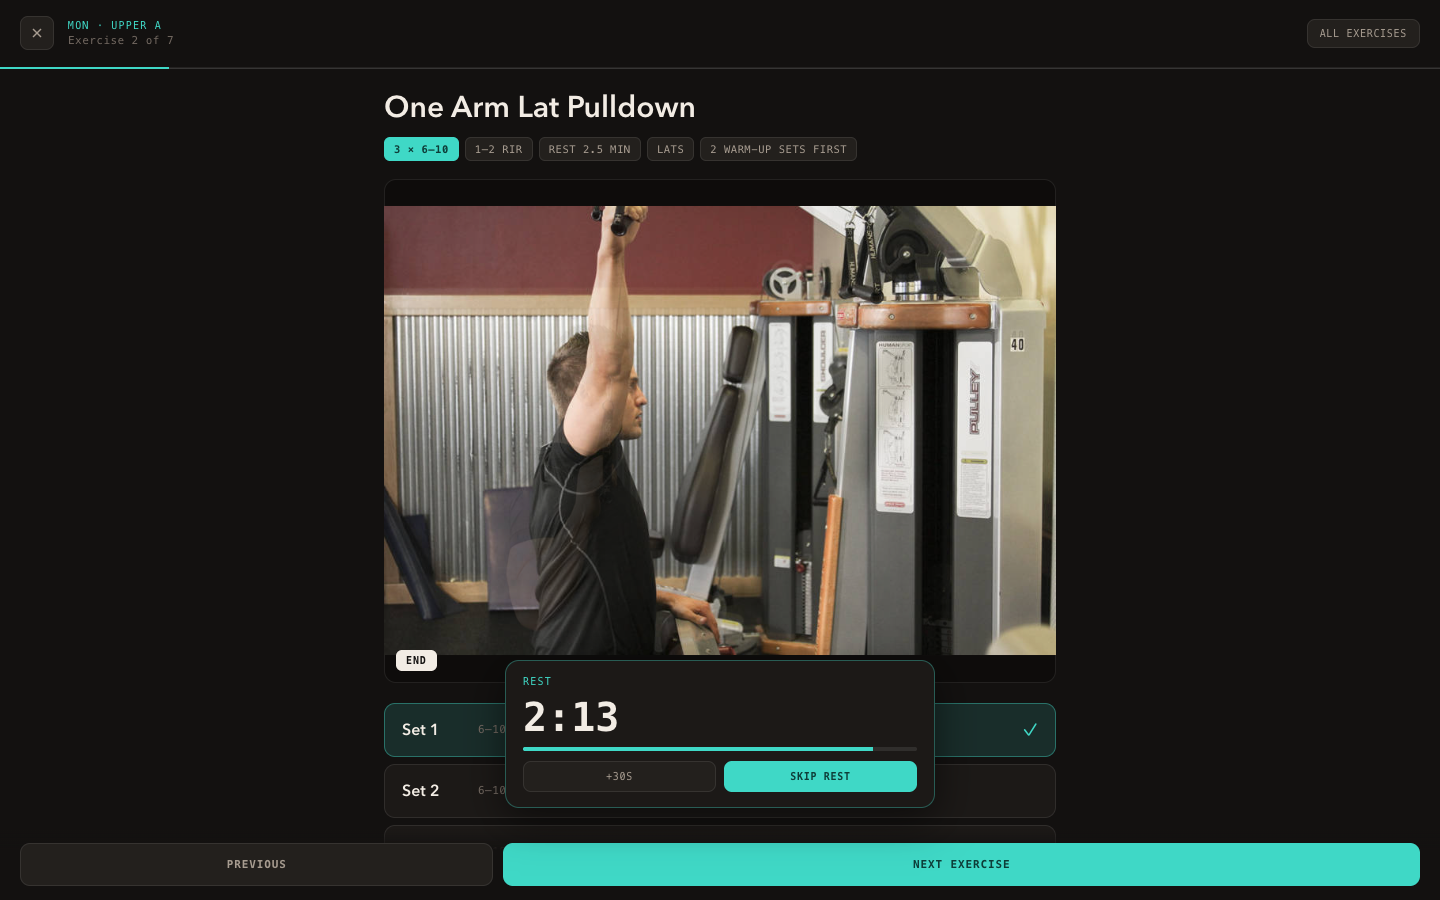
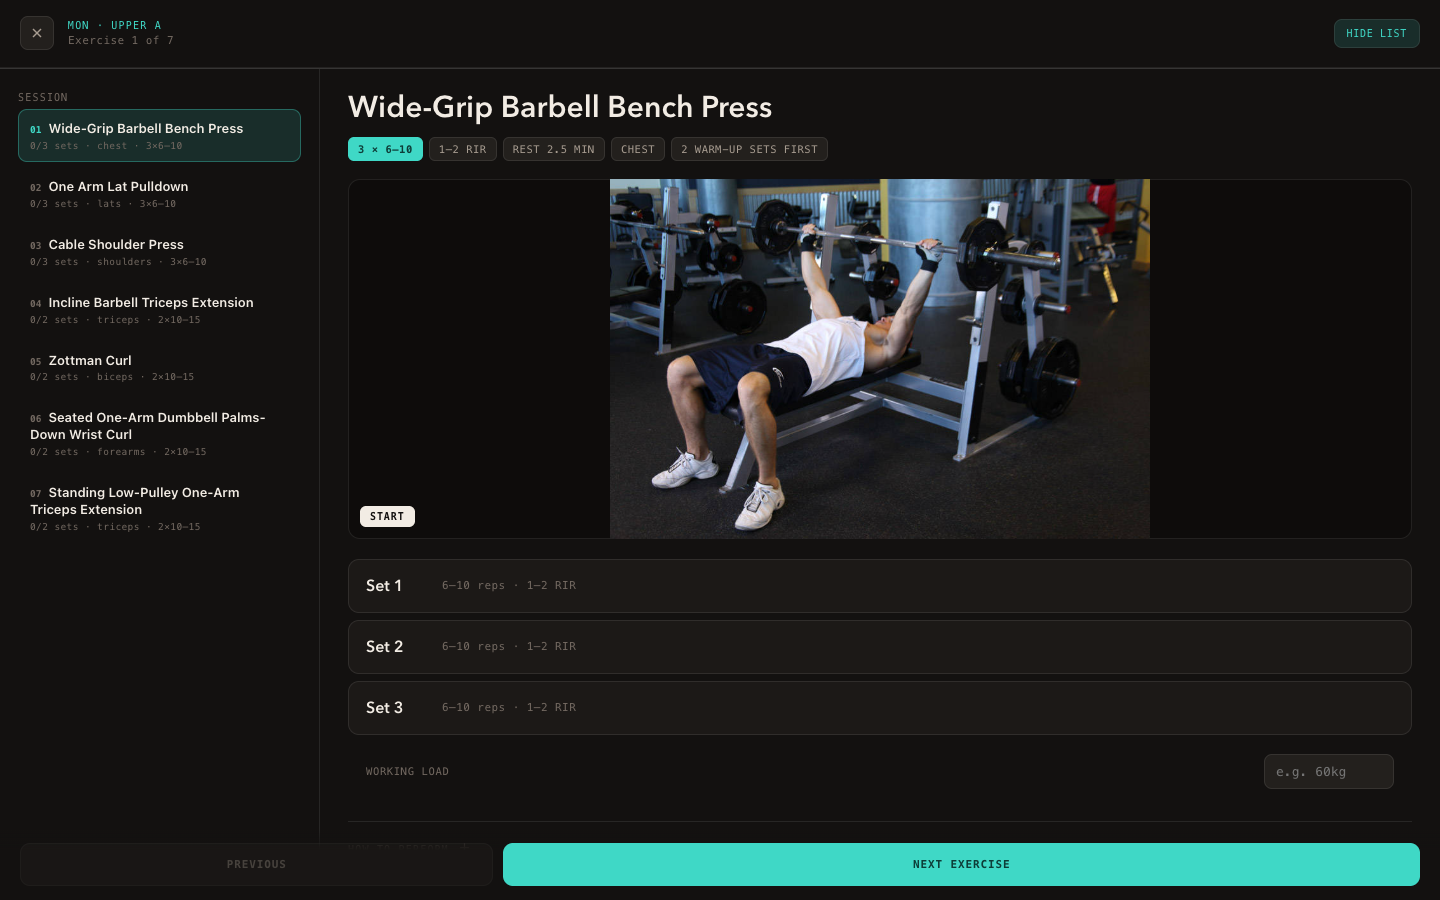
Runner: session list on the left, exercise detail on the right
The list is now a permanent left column rather than a panel hidden behind
a toggle, so the whole session is visible while any one exercise is open.
Items are numbered, show sets done and the prescription, and the current
one scrolls itself into view as you advance.

Also capped the demo image at 40vh: on a wide screen it pushed the set
rows below the fold, and those are the thing you tap between sets.

diff --git a/styles.css b/styles.css
@@ -570,7 +570,8 @@ body {
 }
 
 .run-body { flex: 1; display: flex; min-height: 0; }
-.run-main { flex: 1; overflow-y: auto; padding: 22px 24px 120px; max-width: 720px; margin: 0 auto; width: 100%; }
+.run-main { flex: 1; min-width: 0; overflow-y: auto; padding: 22px 28px 120px; }
+.run-inner { max-width: 760px; margin: 0 auto; }
 .run-main h2 { font-family: var(--display); font-size: 30px; font-weight: 600; line-height: 1.12; text-wrap: balance; }
 .run-meta { display: flex; flex-wrap: wrap; gap: 6px; margin: 12px 0 18px; }
 .rm {
@@ -580,7 +581,11 @@ body {
 }
 .rm.accent { color: var(--accent-ink); background: var(--accent); font-weight: 700; box-shadow: none; }
 
-.run-fig { position: relative; border-radius: 12px; overflow: hidden; background: #0e0c0b; aspect-ratio: 4/3; box-shadow: inset 0 0 0 1px var(--line); }
+.run-fig {
+  position: relative; border-radius: 12px; overflow: hidden; background: #0e0c0b;
+  aspect-ratio: 4/3; max-height: 40vh; margin: 0 auto; width: 100%;
+  box-shadow: inset 0 0 0 1px var(--line);
+}
 .run-fig img { position: absolute; inset: 0; width: 100%; height: 100%; object-fit: contain; transition: opacity 0.6s; }
 #runImgB { opacity: 0; }
 .run-fig figcaption {
@@ -616,7 +621,7 @@ body {
 .run-steps[open] summary::after { content: " −"; }
 .run-steps .steps { margin-top: 14px; }
 
-.run-side { width: 300px; border-left: 1px solid var(--line); padding: 18px; overflow-y: auto; }
+.run-side { width: 320px; flex: none; border-right: 1px solid var(--line); padding: 18px; overflow-y: auto; }
 .sideitem {
   display: block; width: 100%; text-align: left; border: 0; cursor: pointer; font: inherit;
   background: transparent; color: var(--ink); padding: 11px 12px; border-radius: 9px; margin-top: 5px;
@@ -664,3 +669,6 @@ body {
 .run-nav button:disabled { opacity: 0.35; cursor: default; }
 .run-nav .run-next { flex: 2; color: var(--accent-ink); background: var(--accent); box-shadow: none; }
 @media (max-width: 820px) { .run-side { display: none; } }
+
+.si-num { font-family: var(--mono); font-size: 9.5px; color: var(--ink-3); margin-right: 7px; }
+.sideitem.on .si-num { color: var(--accent); }

diff --git a/app.js b/app.js
@@ -1382,12 +1382,15 @@ function drawRun() {
   $('runSideList').innerHTML = items.map((x, i) => {
     const d = doneArr(x).filter(Boolean).length;
     return `<button class="sideitem${i === run.index ? ' on' : ''}${d === x.sets ? ' complete' : ''}" data-i="${i}">
-      <span class="si-name">${x.exercise.name}</span>
-      <span class="si-meta">${d}/${x.sets} sets · ${x.muscle}</span>
+      <span class="si-name"><span class="si-num">${String(i + 1).padStart(2, '0')}</span>${x.exercise.name}</span>
+      <span class="si-meta">${d}/${x.sets} sets · ${x.muscle} · ${x.sets}×${x.reps}</span>
     </button>`;
   }).join('');
   $('runSideList').querySelectorAll('.sideitem').forEach(b =>
     b.addEventListener('click', () => { run.index = +b.dataset.i; saveRun(); drawRun(); }));
+
+  const cur = $('runSideList').querySelector('.sideitem.on');
+  if (cur) cur.scrollIntoView({ block: 'nearest' });
 
   $('runPrev').disabled = run.index === 0;
   $('runNext').textContent = run.index === items.length - 1 ? 'Finish session' : 'Next exercise';
@@ -1437,6 +1440,7 @@ $('runListBtn').addEventListener('click', () => {
   const s = $('runSide');
   s.hidden = !s.hidden;
   $('runListBtn').classList.toggle('on', !s.hidden);
+  $('runListBtn').textContent = s.hidden ? 'Show list' : 'Hide list';
 });
 $('restSkip').addEventListener('click', stopRest);
 $('restPlus').addEventListener('click', () => { restLeft += 30; restTotal += 30; tickRest(); });

diff --git a/index.html b/index.html
@@ -232,11 +232,16 @@
         <span class="overline accent" id="runDay">Session</span>
         <span class="run-count" id="runCount"></span>
       </div>
-      <button class="run-listbtn" id="runListBtn">All exercises</button>
+      <button class="run-listbtn on" id="runListBtn">Hide list</button>
       <div class="run-progress"><i id="runProgressBar"></i></div>
     </header>
 
     <div class="run-body">
+      <aside class="run-side" id="runSide">
+        <span class="overline">Session</span>
+        <div id="runSideList"></div>
+      </aside>
+
       <section class="run-main" id="runMain">
         <h2 id="runName">—</h2>
         <div class="run-meta" id="runMeta"></div>
@@ -254,11 +259,6 @@
           <ol class="steps" id="runStepList"></ol>
         </details>
       </section>
-
-      <aside class="run-side" id="runSide" hidden>
-        <span class="overline">Session</span>
-        <div id="runSideList"></div>
-      </aside>
     </div>
 
     <div class="run-rest" id="runRest" hidden>
